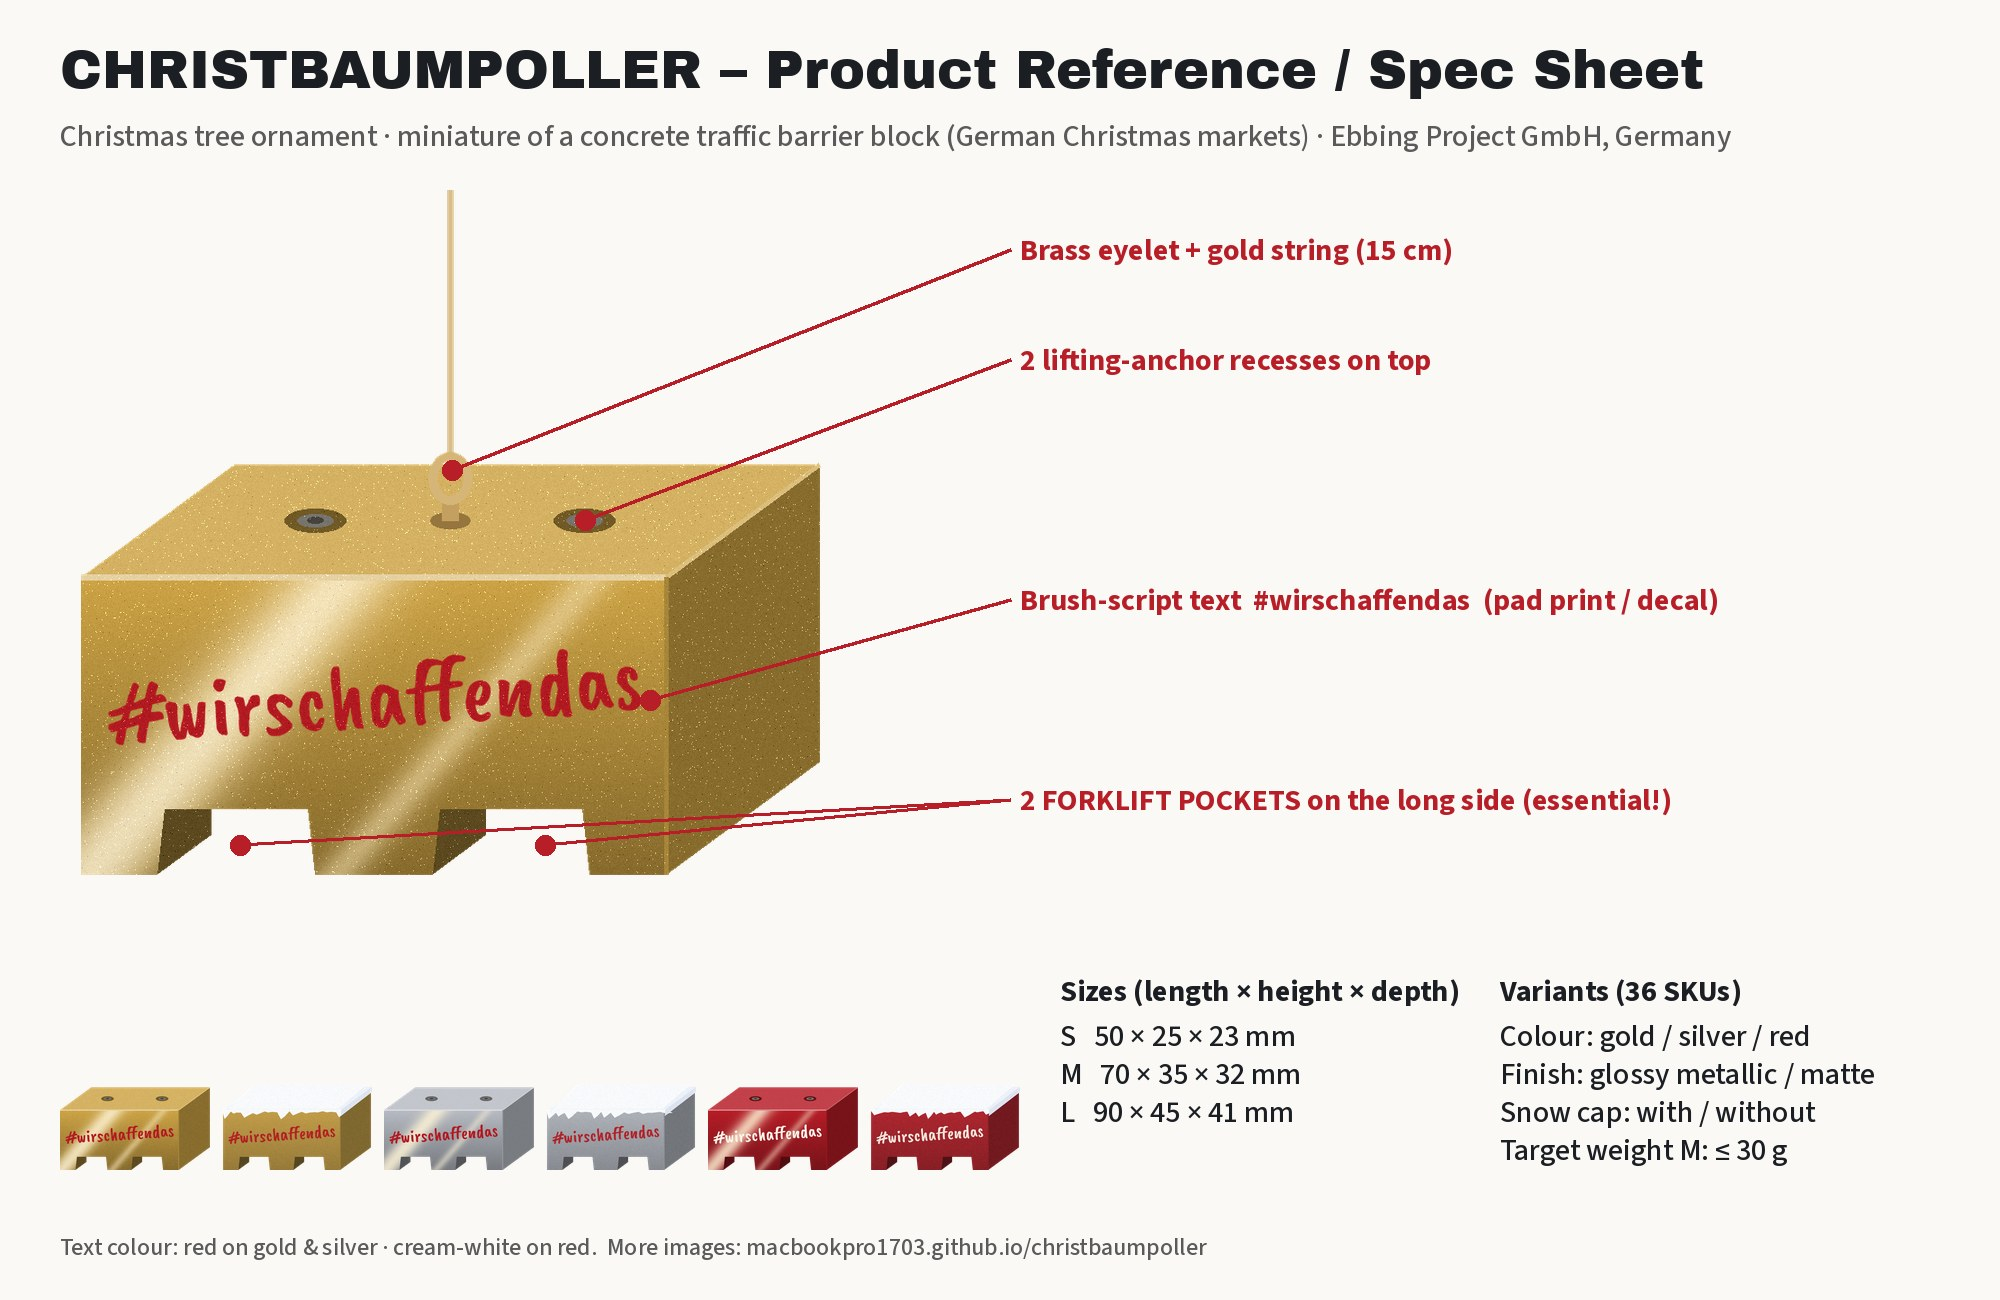
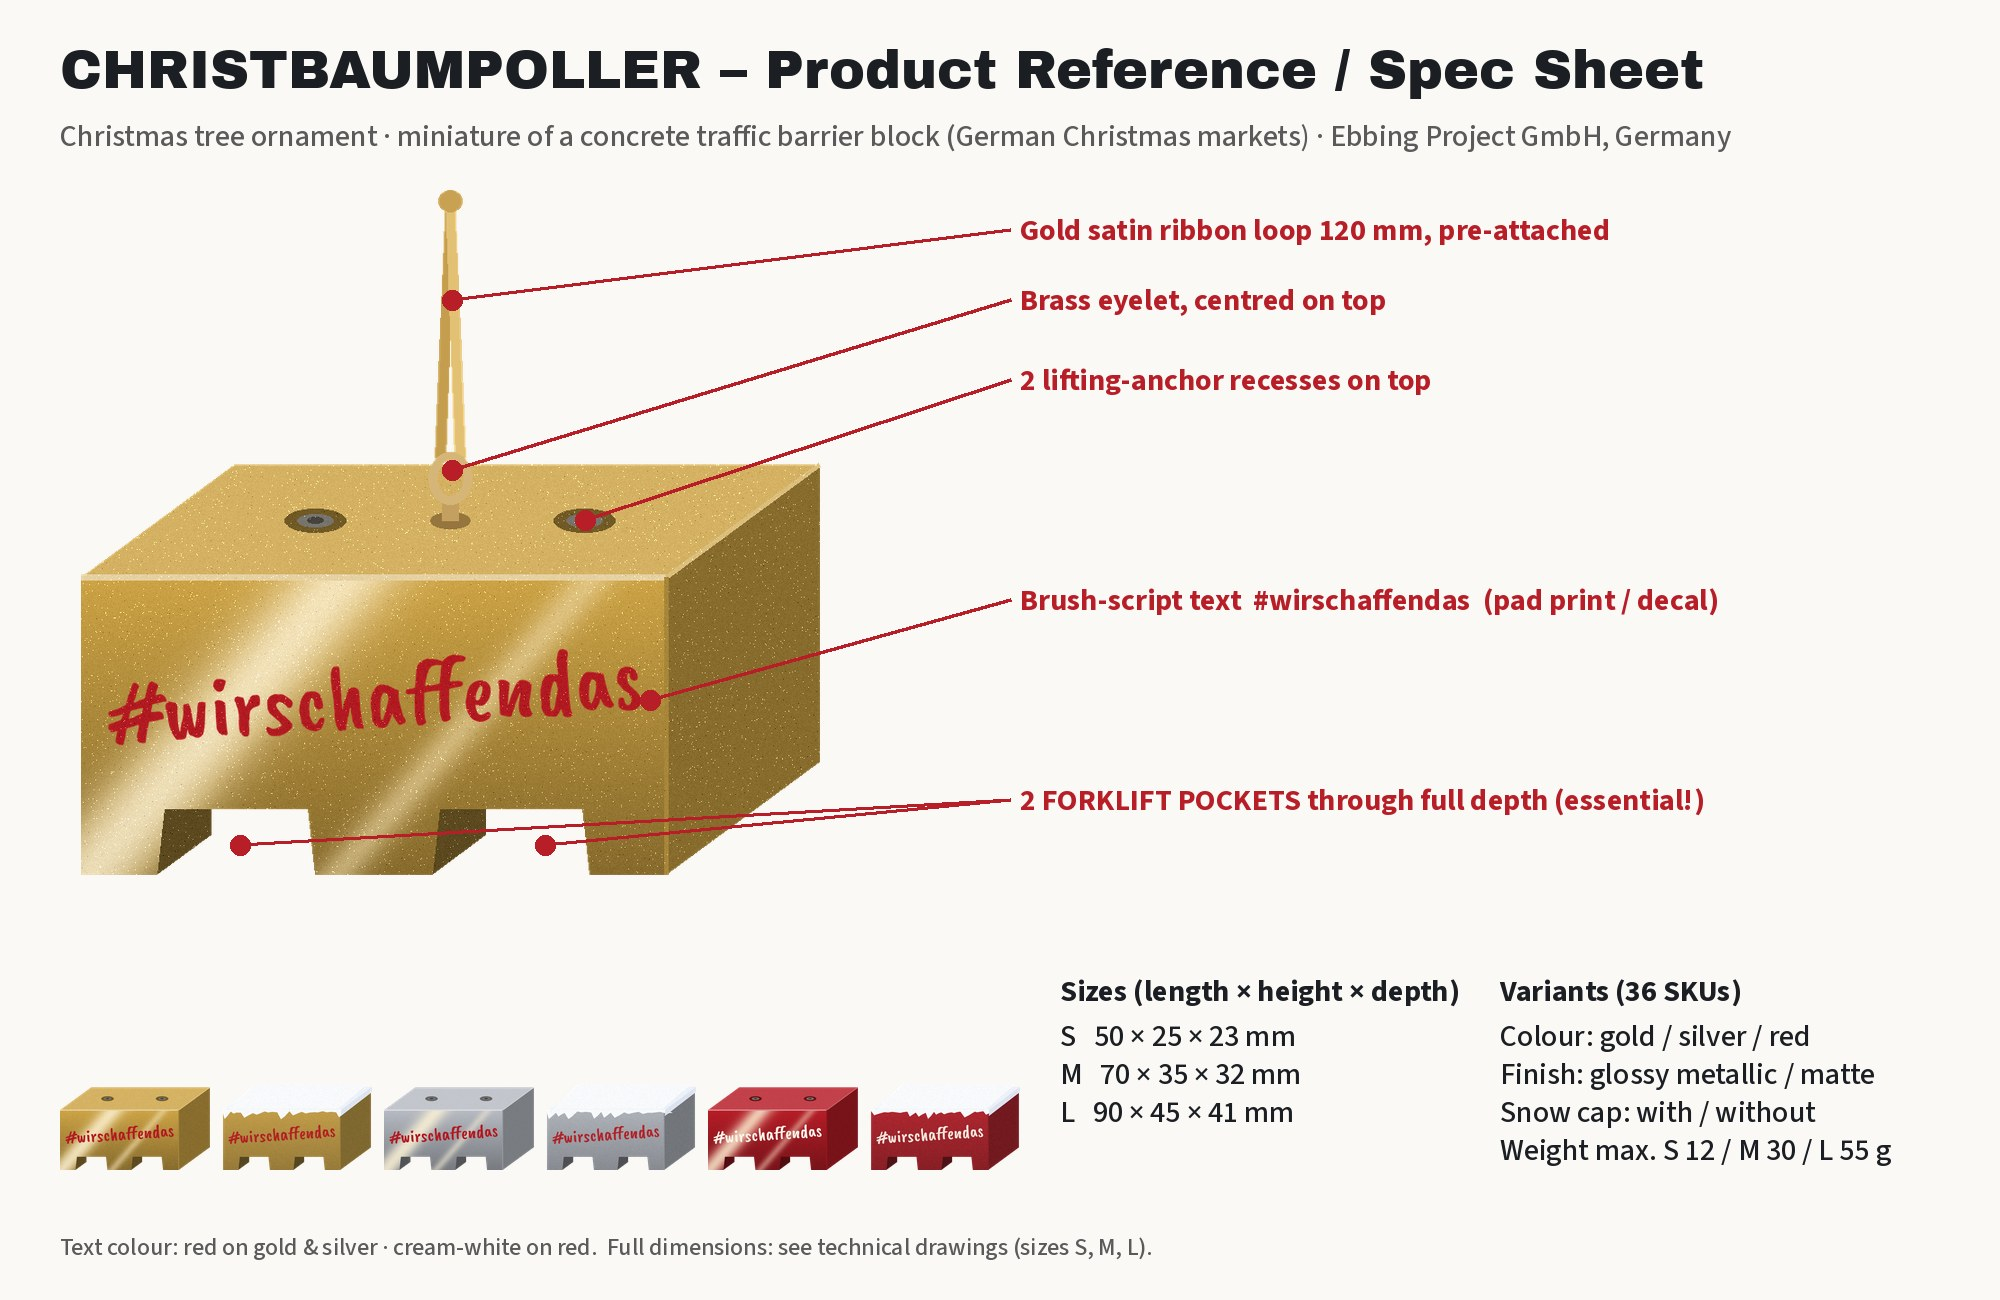
Technische Zeichnungen S/M/L, Spec-Sheet mit Satinband
Claude-Session: https://claude.ai/code/session_011wmzVRbrbjMtSPRxMqRE2h

diff --git a/quelle/zeichnung.py b/quelle/zeichnung.py
@@ -1,0 +1,262 @@
+"""Technische Zeichnungen Christbaumpoller S/M/L – A4 quer, Maßstab 1:1 in mm, Erstwinkel-Projektion."""
+import sys, os, io
+sys.path.insert(0, os.path.dirname(__file__))
+import matplotlib
+matplotlib.use("Agg")
+import matplotlib.pyplot as plt
+from matplotlib.backends.backend_pdf import PdfPages
+from matplotlib.patches import Polygon, Circle, Rectangle, FancyBboxPatch
+from matplotlib.font_manager import FontProperties
+from matplotlib.textpath import TextPath
+from matplotlib.patches import PathPatch
+from matplotlib.transforms import Affine2D
+import numpy as np
+from engine import block, BLOCK
+from PIL import Image
+
+plt.rcParams["font.family"] = "DejaVu Sans"
+SCRIPT = FontProperties(fname=os.path.join(os.path.dirname(__file__), "fonts", "CaveatBrush.ttf"))
+INK, DIM, RED, GOLD, HID = "#1b1e22", "#1a4f9c", "#b81c26", "#c9a24a", "#777777"
+
+# Maße in mm – Summen der Längsteilung geprüft (Fuß + Tasche + Mittelfuß + Tasche + Fuß = L)
+SIZES = {
+    "S": dict(L=50, H=25, D=23, a=6.5, w=13.5, wt=12, m=10, h=5.5, ax=(13.5, 36.5), ad=4.5, adep=1.0,
+              eo=5, ewire=0.8, eh=5.5, tw=43, th=7, tc=10, wt_g=12, ch=0.3),
+    "M": dict(L=70, H=35, D=32, a=9, w=19, wt=17, m=14, h=8, ax=(19, 51), ad=6, adep=1.5,
+              eo=6, ewire=0.8, eh=7, tw=60, th=10, tc=14, wt_g=30, ch=0.5),
+    "L": dict(L=90, H=45, D=41, a=11.5, w=24.5, wt=22, m=18, h=10.5, ax=(24.5, 65.5), ad=7.5, adep=2.0,
+              eo=7, ewire=1.0, eh=8.5, tw=77, th=13, tc=18, wt_g=55, ch=0.5),
+}
+for k, s in SIZES.items():
+    assert abs(2 * s["a"] + 2 * s["w"] + s["m"] - s["L"]) < 1e-6, k
+RIBBON = "gold satin ribbon, width 3 mm, closed loop\n120 mm (240 mm cut length), knotted,\npre-attached to the eyelet"
+
+
+def dim_h(ax, x1, x2, y, yref, txt, above=True, fs=7):
+    ax.plot([x1, x1], [yref, y + (1.2 if above else -1.2)], color=DIM, lw=0.4)
+    ax.plot([x2, x2], [yref, y + (1.2 if above else -1.2)], color=DIM, lw=0.4)
+    ax.annotate("", xy=(x1, y), xytext=(x2, y), arrowprops=dict(arrowstyle="<->", color=DIM, lw=0.6, shrinkA=0, shrinkB=0, mutation_scale=6))
+    ax.text((x1 + x2) / 2, y + (0.8 if above else -0.8), txt, ha="center", va="bottom" if above else "top", fontsize=fs, color=DIM)
+
+
+def dim_v(ax, y1, y2, x, xref, txt, left=True, fs=7):
+    ax.plot([xref, x + (-1.2 if left else 1.2)], [y1, y1], color=DIM, lw=0.4)
+    ax.plot([xref, x + (-1.2 if left else 1.2)], [y2, y2], color=DIM, lw=0.4)
+    ax.annotate("", xy=(x, y1), xytext=(x, y2), arrowprops=dict(arrowstyle="<->", color=DIM, lw=0.6, shrinkA=0, shrinkB=0, mutation_scale=6))
+    ax.text(x + (-0.8 if left else 0.8), (y1 + y2) / 2, txt, ha="right" if left else "left", va="center", fontsize=fs, color=DIM, rotation=90, rotation_mode="anchor") if False else \
+        ax.text(x + (-0.8 if left else 0.8), (y1 + y2) / 2, txt, ha="right" if left else "left", va="center", fontsize=fs, color=DIM)
+
+
+def front_poly(s, x0, y0):
+    L, H, a, w, wt, m, h = s["L"], s["H"], s["a"], s["w"], s["wt"], s["m"], s["h"]
+    d = (w - wt) / 2
+    p1a, p1b = x0 + a, x0 + a + w
+    p2a, p2b = p1b + m, p1b + m + w
+    return [(x0, y0), (p1a, y0), (p1a + d, y0 + h), (p1b - d, y0 + h), (p1b, y0), (p2a, y0), (p2a + d, y0 + h), (p2b - d, y0 + h),
+            (p2b, y0), (x0 + L, y0), (x0 + L, y0 + H), (x0, y0 + H)]
+
+
+def script_text(ax, s, x0, y0, txt="#wirschaffendas"):
+    tp = TextPath((0, 0), txt, size=10, prop=SCRIPT)
+    bb = tp.get_extents()
+    sc = s["tw"] / bb.width
+    cx, cy = x0 + s["L"] / 2, y0 + s["H"] - s["tc"]
+    tr = Affine2D().translate(-bb.x0 - bb.width / 2, -bb.y0 - bb.height / 2).scale(sc).rotate_deg(4).translate(cx, cy)
+    ax.add_patch(PathPatch(tr.transform_path(tp), color=RED, lw=0))
+    # Druckfeld
+    ax.add_patch(Rectangle((cx - s["tw"] / 2, cy - s["th"] / 2), s["tw"], s["th"], fill=False, ls=(0, (2, 1.5)), lw=0.4, ec=HID))
+    return cx, cy
+
+
+def sheet(pdf, size):
+    s = SIZES[size]
+    L, H, D = s["L"], s["H"], s["D"]
+    fig = plt.figure(figsize=(297 / 25.4, 210 / 25.4))
+    ax = fig.add_axes([0, 0, 1, 1])
+    ax.set_xlim(0, 297); ax.set_ylim(0, 210); ax.set_aspect("equal"); ax.axis("off")
+    ax.add_patch(Rectangle((8, 8), 281, 194, fill=False, lw=0.8, ec=INK))
+    ax.text(14, 196, f"CHRISTBAUMPOLLER – size {size}  ·  {L} × {H} × {D} mm", fontsize=13, weight="bold", color=INK, va="top")
+    ax.text(14, 189, "Christmas tree ornament · scale 1:1 when printed on A4 at 100 % · all dimensions in mm · first-angle projection",
+            fontsize=7.5, color=HID, va="top")
+
+    # ---------- Vorderansicht ----------
+    fx, fy = 30, 98
+    ax.add_patch(Polygon(front_poly(s, fx, fy), closed=True, fc="#f3ead6", ec=INK, lw=0.9))
+    script_text(ax, s, fx, fy)
+    # Transportanker (verdeckt) in der Vorderansicht
+    for axx in s["ax"]:
+        ax.add_patch(Rectangle((fx + axx - s["ad"] / 2, fy + H - s["adep"]), s["ad"], s["adep"], fill=False, ls="--", lw=0.4, ec=HID))
+    # Öse + Band
+    ex, ey = fx + L / 2, fy + H
+    stem = 2.0
+    ax.add_patch(Rectangle((ex - 0.6, ey), 1.2, stem, fc=GOLD, ec=INK, lw=0.4))
+    ax.add_patch(Circle((ex, ey + stem + s["eo"] / 2), s["eo"] / 2, fill=False, ec=GOLD, lw=2.2))
+    ax.add_patch(Circle((ex, ey + stem + s["eo"] / 2), s["eo"] / 2, fill=False, ec=INK, lw=0.3))
+    rt = ey + stem + s["eo"] - 1
+    top = ey + 34
+    ax.plot([ex - 0.9, ex - 0.4], [rt, top], color=GOLD, lw=2.0)
+    ax.plot([ex + 0.9, ex + 0.4], [rt, top], color=GOLD, lw=2.0)
+    ax.plot([ex - 4, ex - 1, ex + 1, ex + 4], [top + 1, top + 2.5, top - 0.5, top + 1], color=INK, lw=0.5)  # Bruchlinie
+    ax.text(ex + 4, top - 6, "ribbon loop\n120 mm (shortened)", fontsize=6.5, color=INK, va="center")
+    ax.text(fx, fy + H + 2, "FRONT VIEW", fontsize=7.5, weight="bold", color=INK, va="bottom")
+    # Maße Front
+    dim_h(ax, fx, fx + L, fy - 9, fy, f"{L}", above=False)
+    xs = [fx, fx + s["a"], fx + s["a"] + s["w"], fx + s["a"] + s["w"] + s["m"], fx + L - s["a"], fx + L]
+    labels = [s["a"], s["w"], s["m"], s["w"], s["a"]]
+    for i in range(5):
+        dim_h(ax, xs[i], xs[i + 1], fy - 4, fy, f"{labels[i]:g}", above=False, fs=6)
+    dim_v(ax, fy, fy + H, fx - 5, fx, f"{H}")
+    dim_v(ax, fy, fy + s["h"], fx + L + 4, fx + L, f"{s['h']:g}", left=False, fs=6)
+    ax.text(fx + s["a"] + s["w"] / 2, fy + s["h"] + 1.2, f"top {s['wt']:g}", fontsize=5.5, color=DIM, ha="center")
+    dim_v(ax, ey, ey + stem + s["eo"], ex + s["eo"] / 2 + 6, ex, f"{stem + s['eo']:g}", left=False, fs=6)
+    ax.text(ex - s["eo"] / 2 - 1, ey + stem + s["eo"] + 0.6, f"Ø{s['eo']:g}", fontsize=6, color=DIM, ha="right", va="bottom")
+    dim_v(ax, fy + H - s["tc"], fy + H, fx + L + 12, fx + L, f"{s['tc']:g}", left=False, fs=6)
+
+    # ---------- Seitenansicht (links, Erstwinkel rechts daneben) ----------
+    sx, sy = fx + L + 26, fy
+    ax.add_patch(Rectangle((sx, sy), D, H, fc="#e9dfc6", ec=INK, lw=0.9))
+    ax.plot([sx, sx + D], [sy + s["h"], sy + s["h"]], ls="--", lw=0.5, color=HID)
+    ax.text(sx + D / 2, sy + s["h"] / 2, "pocket through", fontsize=5.5, color=HID, ha="center", va="center")
+    ax.add_patch(Rectangle((sx + D / 2 - 0.6, sy + H), 1.2, stem, fc=GOLD, ec=INK, lw=0.4))
+    ax.add_patch(Circle((sx + D / 2, sy + H + stem + s["eo"] / 2), s["eo"] / 2, fill=False, ec=GOLD, lw=2.2))
+    dim_h(ax, sx, sx + D, sy - 9, sy, f"{D}", above=False)
+    ax.text(sx, sy + H + stem + s["eo"] + 2.5, "SIDE VIEW", fontsize=7.5, weight="bold", color=INK, va="bottom")
+    ax.text(sx + D / 2, sy - 16, "forklift pockets run through\nthe full depth", fontsize=6, color=INK, ha="center", va="top")
+
+    # ---------- Draufsicht (unter der Vorderansicht) ----------
+    tx, ty = fx, fy - 30 - D
+    ax.add_patch(Rectangle((tx, ty), L, D, fc="#f6efe0", ec=INK, lw=0.9))
+    for axx in s["ax"]:
+        ax.add_patch(Circle((tx + axx, ty + D / 2), s["ad"] / 2, fc="#cfc7b6", ec=INK, lw=0.5))
+        ax.add_patch(Circle((tx + axx, ty + D / 2), s["ad"] / 4, fc="#8a857c", ec=INK, lw=0.3))
+    ax.add_patch(Circle((tx + L / 2, ty + D / 2), 1.6, fc=GOLD, ec=INK, lw=0.4))
+    ax.text(tx, ty + D + 2, "TOP VIEW", fontsize=7.5, weight="bold", color=INK, va="bottom")
+    dim_h(ax, tx, tx + s["ax"][0], ty - 4, ty, f"{s['ax'][0]:g}", above=False, fs=6)
+    dim_h(ax, tx, tx + L / 2, ty - 9, ty, f"{L / 2:g}", above=False, fs=6)
+    dim_h(ax, tx, tx + s["ax"][1], ty - 14, ty, f"{s['ax'][1]:g}", above=False, fs=6)
+    dim_v(ax, ty, ty + D / 2, tx - 5, tx, f"{D / 2:g}", fs=6)
+    dim_v(ax, ty, ty + D, tx - 11, tx, f"{D}")
+    ax.annotate(f"2× lifting anchor recess\nØ{s['ad']:g}, depth {s['adep']:g}", xy=(tx + s["ax"][1] + s["ad"] / 2, ty + D / 2),
+                xytext=(tx + L + 4, ty + D * 0.75), fontsize=5.8, color=DIM, va="center",
+                arrowprops=dict(arrowstyle="-", color=DIM, lw=0.4))
+    ax.annotate("eyelet, centred", xy=(tx + L / 2, ty + D / 2 - 1.6), xytext=(tx + L + 4, ty + D * 0.25), fontsize=5.8, color=DIM, va="center",
+                arrowprops=dict(arrowstyle="-", color=DIM, lw=0.4))
+
+    # ---------- Render ----------
+    img = block("gold-glanz", size=900, seed=3)
+    img = img.crop(img.getbbox())
+    bw, bh = 62, 50
+    iw = min(bw, bh * img.width / img.height); ih = iw * img.height / img.width
+    x0r = 245 - iw / 2
+    ax.imshow(np.array(img), extent=(x0r, x0r + iw, 184 - ih, 184), zorder=3)
+    ax.text(245, 131, f"reference render (size {size}, gold glossy)", fontsize=6, color=HID, ha="center", va="top")
+
+    # ---------- Spezifikation ----------
+    spec = [
+        ("Body", f"{L} × {H} × {D} mm, edges\nchamfered/rounded {s['ch']:g} mm"),
+        ("Forklift pockets", f"2×, through the full depth;\nwidth {s['w']:g} (bottom) / {s['wt']:g} (top),\nheight {s['h']:g}"),
+        ("Feet", f"outer {s['a']:g} mm, middle {s['m']:g} mm"),
+        ("Lifting anchors", f"2× round recess Ø{s['ad']:g}, depth {s['adep']:g},\nat {s['ax'][0]:g} and {s['ax'][1]:g} mm, centred in depth"),
+        ("Eyelet", f"brass colour, ring Ø{s['eo']:g} outer, wire Ø{s['ewire']:g},\nheight {stem + s['eo']:g} above top, fixed min. 3 mm\ndeep, pull test ≥ 2 kg"),
+        ("Ribbon", RIBBON),
+        ("Print", f"\"#wirschaffendas\", brush script (font Caveat\nBrush, vector file supplied), print field\n{s['tw']:g} × {s['th']:g} mm, centre {s['tc']:g} mm below top\nedge, rotated +4°, pad print"),
+        ("Weight", f"max. {s['wt_g']} g incl. eyelet and ribbon"),
+        ("Tolerance", "general ± 0.3 mm (S, M), ± 0.5 mm (L);\ntext position ± 1 mm"),
+    ]
+    yy = 117
+    ax.text(204, yy + 3, "SPECIFICATION", fontsize=8, weight="bold", color=INK, va="bottom")
+    for k, v in spec:
+        ax.text(204, yy, k, fontsize=5.9, weight="bold", color=INK, va="top")
+        ax.text(230, yy, v, fontsize=5.9, color=INK, va="top")
+        yy -= 4.0 + 2.9 * v.count("\n")
+
+    # ---------- Schriftfeld ----------
+    tb = [("Project", "Christbaumpoller"), ("Part", f"Ornament size {size}"), ("Material", "polyresin or ABS/PS (see RFQ)"),
+          ("Units / scale", "mm · 1:1 on A4"), ("Rev / date", "A · 20.11.2026"), ("Customer", "Ebbing Project GmbH, 46348 Raesfeld, Germany")]
+    ax.add_patch(Rectangle((204, 12), 81, 27, fill=False, ec=INK, lw=0.6))
+    for i, (k, v) in enumerate(tb):
+        y = 36 - i * 4.2
+        ax.text(206, y, k, fontsize=5.8, color=HID, va="center")
+        ax.text(225, y, v, fontsize=6.2, color=INK, va="center", weight="bold" if i < 2 else "normal")
+    # 1:1-Prüfmaß
+    ax.plot([140, 190], [14, 14], color=INK, lw=0.8)
+    for x in range(140, 191, 10):
+        ax.plot([x, x], [13, 15], color=INK, lw=0.6)
+    ax.text(140, 16.5, "check scale: 50 mm", fontsize=6, color=INK)
+    check(fig, ax, f"sheet {size}")
+    pdf.savefig(fig)
+    plt.close(fig)
+
+
+PROBLEMS = []
+def check(fig, ax, name):
+    fig.canvas.draw()
+    r = fig.canvas.get_renderer()
+    inv = ax.transData.inverted()
+    boxes = []
+    for t in ax.texts:
+        if not t.get_text().strip():
+            continue
+        bb = t.get_window_extent(r)
+        (x0, y0), (x1, y1) = inv.transform([(bb.x0, bb.y0), (bb.x1, bb.y1)])
+        if x0 < 8.5 or x1 > 288.5 or y0 < 8.5 or y1 > 201.5:
+            PROBLEMS.append(f"{name}: outside frame: {t.get_text()[:40]!r} x {x0:.1f}-{x1:.1f} y {y0:.1f}-{y1:.1f}")
+        boxes.append((x0, y0, x1, y1, t.get_text()[:30]))
+    for i in range(len(boxes)):
+        for j in range(i + 1, len(boxes)):
+            a, b = boxes[i], boxes[j]
+            ox = min(a[2], b[2]) - max(a[0], b[0]); oy = min(a[3], b[3]) - max(a[1], b[1])
+            if ox > 0.3 and oy > 0.3:
+                PROBLEMS.append(f"{name}: overlap {a[4]!r} / {b[4]!r}")
+
+
+def overview(pdf):
+    fig = plt.figure(figsize=(297 / 25.4, 210 / 25.4))
+    ax = fig.add_axes([0, 0, 1, 1])
+    ax.set_xlim(0, 297); ax.set_ylim(0, 210); ax.set_aspect("equal"); ax.axis("off")
+    ax.add_patch(Rectangle((8, 8), 281, 194, fill=False, lw=0.8, ec=INK))
+    ax.text(14, 196, "CHRISTBAUMPOLLER – technical drawings · overview of sizes and variants", fontsize=13, weight="bold", color=INK, va="top")
+    ax.text(14, 189, "Front views at scale 1:1 (A4, 100 %) with eyelet and pre-attached ribbon (shortened). Detail sheets per size follow. Dimensions in mm.", fontsize=7.5, color=HID, va="top")
+    x = 20
+    for size in ("S", "M", "L"):
+        s = SIZES[size]
+        ax.add_patch(Polygon(front_poly(s, x, 130), closed=True, fc="#f3ead6", ec=INK, lw=0.9))
+        script_text(ax, s, x, 130)
+        ex, ey = x + s["L"] / 2, 130 + s["H"]
+        ax.add_patch(Rectangle((ex - 0.6, ey), 1.2, 2, fc=GOLD, ec=INK, lw=0.3))
+        ax.add_patch(Circle((ex, ey + 2 + s["eo"] / 2), s["eo"] / 2, fill=False, ec=GOLD, lw=2))
+        rt = ey + 2 + s["eo"] - 1
+        ax.plot([ex - 0.9, ex - 0.3], [rt, 186], color=GOLD, lw=1.6)
+        ax.plot([ex + 0.9, ex + 0.3], [rt, 186], color=GOLD, lw=1.6)
+        ax.text(x + s["L"] / 2, 124, f"{size}: {s['L']} × {s['H']} × {s['D']} mm · max. {s['wt_g']} g", fontsize=7.5, ha="center", va="top", weight="bold")
+        x += s["L"] + 28
+    # Variantenbilder
+    keys = ["gold-glanz", "gold-glanz-schnee", "gold-matt", "gold-matt-schnee", "silber-glanz", "silber-glanz-schnee",
+            "silber-matt", "silber-matt-schnee", "rot-glanz", "rot-glanz-schnee", "rot-matt", "rot-matt-schnee"]
+    names = {"gold": "GOLD", "silber": "SILVER", "rot": "RED", "glanz": "glossy", "matt": "matte"}
+    for i, k in enumerate(keys):
+        im = block(k, size=420, seed=i, hang=False)
+        w = 40; h = w * im.height / im.width
+        cx = 20 + (i % 6) * 45
+        cy = 108 - (i // 6) * 40
+        ax.imshow(np.array(im), extent=(cx, cx + w, cy - h, cy), zorder=3)
+        p = k.split("-")
+        ax.text(cx + w / 2, cy - h - 1.5, f"{names[p[0]]} {names[p[1]]}" + (" + snow" if len(p) > 2 else ""), fontsize=5.8, ha="center", va="top")
+    notes = ("Colours (approval by physical colour sample): gold metallic ≈ Pantone 871 C · silver metallic ≈ Pantone 877 C · red ≈ Pantone 186 C.\n"
+             "Text colour: red ≈ Pantone 186 C on gold and silver; cream white ≈ RAL 9001 on red.  Glossy = high-gloss metallic clear coat; matte = soft-touch matte clear coat.\n"
+             "Snow cap: white texture paste with fine glitter on the full top surface, thickness 1.5–3 mm, irregular drips over the front edge 1–5 mm; anchors may be covered.\n"
+             "Each piece: polybag + kraft box + hang tag with importer info (GPSR) and warning \"Decoration, not a toy. Not suitable for children under 3 years.\"")
+    ax.text(14, 13, notes, fontsize=6.2, color=INK, va="bottom", linespacing=1.5)
+    check(fig, ax, "overview")
+    pdf.savefig(fig)
+    plt.close(fig)
+
+
+if __name__ == "__main__":
+    out = sys.argv[1] if len(sys.argv) > 1 else "/home/claude/cbp/save/Christbaumpoller_Technische-Zeichnungen.pdf"
+    with PdfPages(out) as pdf:
+        overview(pdf)
+        for sz in ("S", "M", "L"):
+            sheet(pdf, sz)
+    print("\n".join(PROBLEMS) if PROBLEMS else "no layout problems")
+    print("ok", out)

diff --git a/quelle/engine.py b/quelle/engine.py
@@ -563,7 +563,11 @@ def block(variant="gold-glanz", size=420, seed=1, hang=True, text=None):
         d.ellipse([hx - 24, ring_y - 54, hx + 24, ring_y + 4], outline=(214, 182, 120), width=10)
     out = Image.new("RGBA", (W, CH), (0, 0, 0, 0))
     if hang:
-        ImageDraw.Draw(out).line([(W / 2, 0), (W / 2, ring_y - 50)], fill=(215, 190, 140, 255), width=7)
+        od = ImageDraw.Draw(out)
+        # Satinband als Schlaufe: zwei Stränge von der Öse nach oben, oben verknotet
+        for dx, col in ((-11, (196, 158, 78, 255)), (11, (226, 192, 116, 255))):
+            od.polygon([(W / 2 + dx - 6, ring_y - 48), (W / 2 + dx + 6, ring_y - 48), (W / 2 + 5, 10), (W / 2 - 5, 10)], fill=col)
+        od.ellipse([W / 2 - 13, 0, W / 2 + 13, 24], fill=(200, 162, 82, 255))
     out.alpha_composite(im, (int(W / 2 - hx), 0))
     if not hang:
         out = out.crop(out.getbbox())
